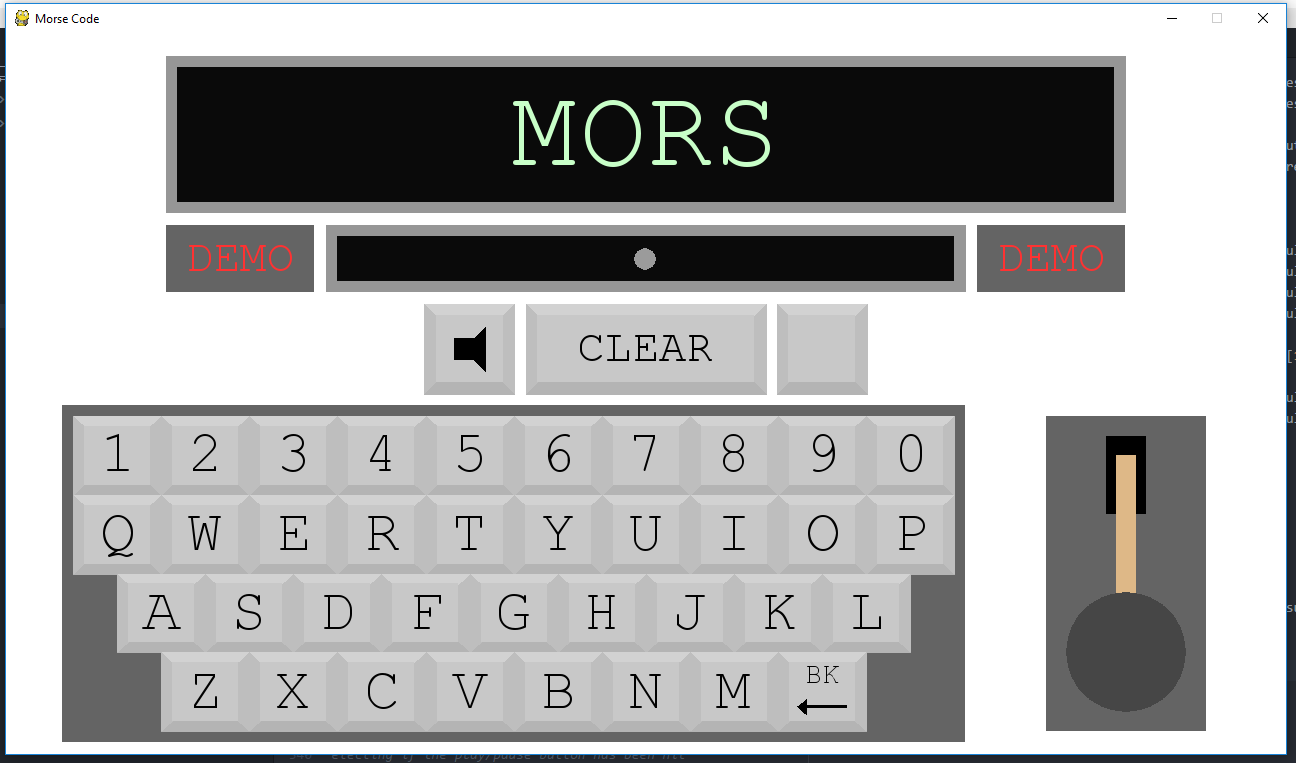
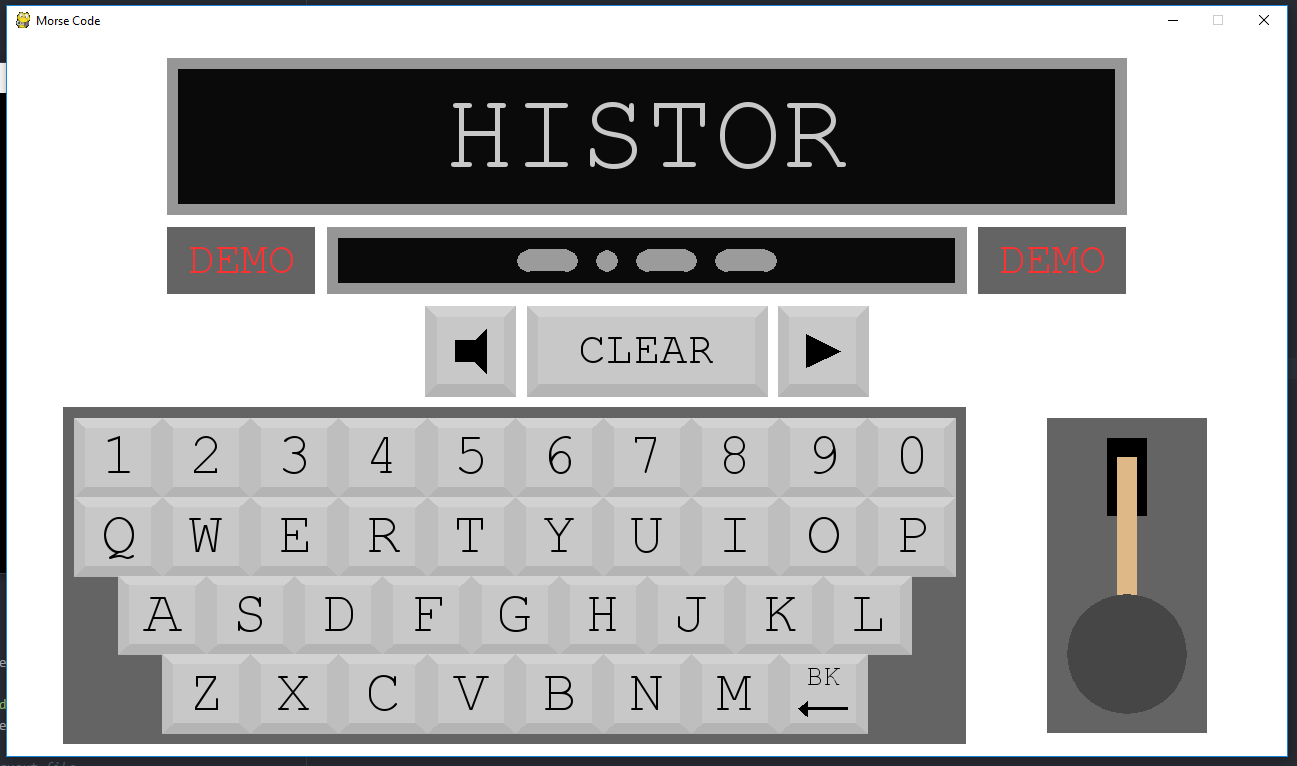
hey look at that now the play button that i put in two weeks ago is in the readme

diff --git a/config.py b/config.py
@@ -159,7 +159,7 @@ maxsoundvolume = (1)
 #below this line is checking that any modifications above this line aren't going to break anything.
 
 #checking that all variables that need to exist still exist
-print("Don't forget to check that variables still exist")
+#print("Don't forget to check that variables still exist")
 
 #checking all the values in the colours are within the acceptable ranges
 colourvars = [clearcol,cleartop,clearsid,clearsiddown,cleartextcol,backgroundcol,keyboardcol,keycol,keytop,keysid,keysiddown,keybot,keytextcol,charstreamoutlinecol,charstreambackgroundcol,charstreamtextcol,morsewritecol,morsegoodcol,morsebadcol,mckeytopbox,mckeyvertbar,mckeycircle,mckeyvertbardark,mckeycircledark]

diff --git a/README.md b/README.md
@@ -5,8 +5,6 @@ Designed to run on a raspberry pi, unknown screen size so everything is just bas
 
 Here's it running in demo mode (after having been left idle for x amount of time)
 
-(the blank button right of the 'clear' button will be a playback button later on)
-
 ![morsedemo](morsedemo.png)
 
 ## Features currently in there:
@@ -37,7 +35,7 @@ Two resistors and a few wires will be needed to connect the morse code key to th
 
 ![raspberrywiring](raspberrywiring.png)
 
-If you know how to deal with circuit diagrams drawn in paint then yay you're all set. If you're not then go and get an adult to help you set things up. In case you can't tell the key is represented by the switch in the diagram. 
+If you know how to deal with circuit diagrams drawn in paint then yay you're all set. If you're not then go and get an adult to help you set things up. In case you can't tell the key is represented by the switch in the diagram.
 
 ### Close the program:
 There's a word called `exitword` in 'config.py'. Type it to close the program.
